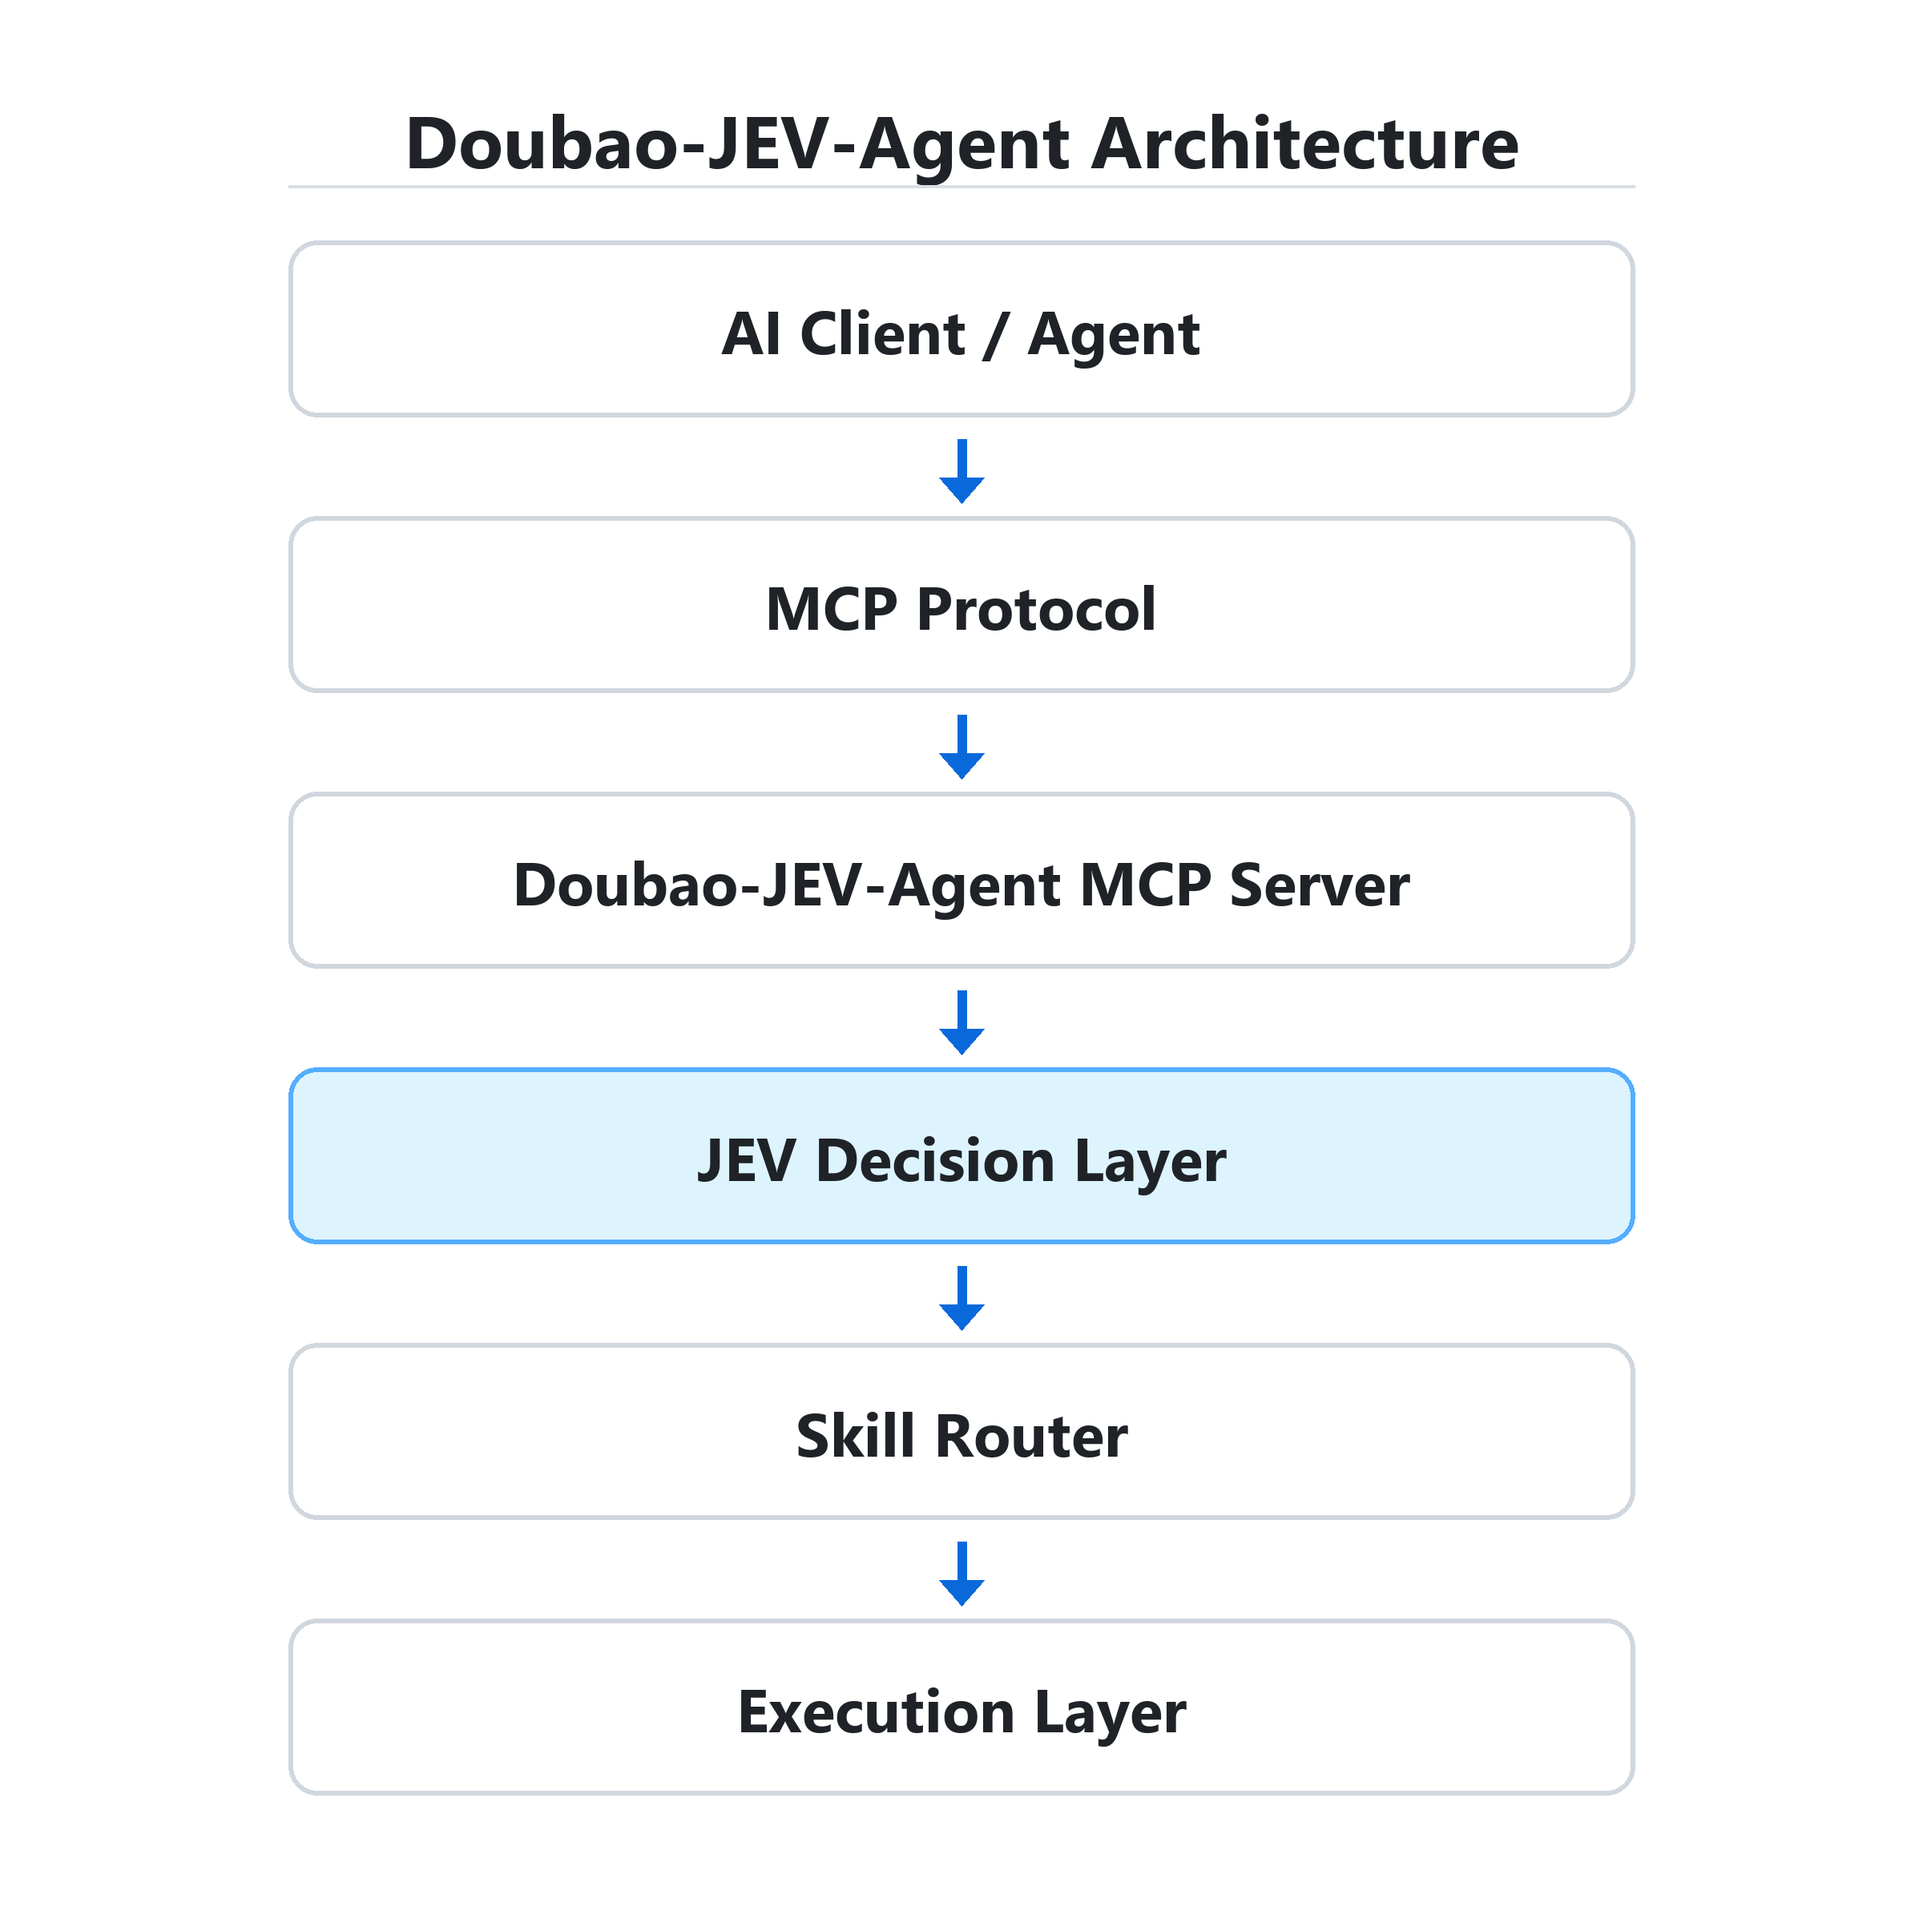
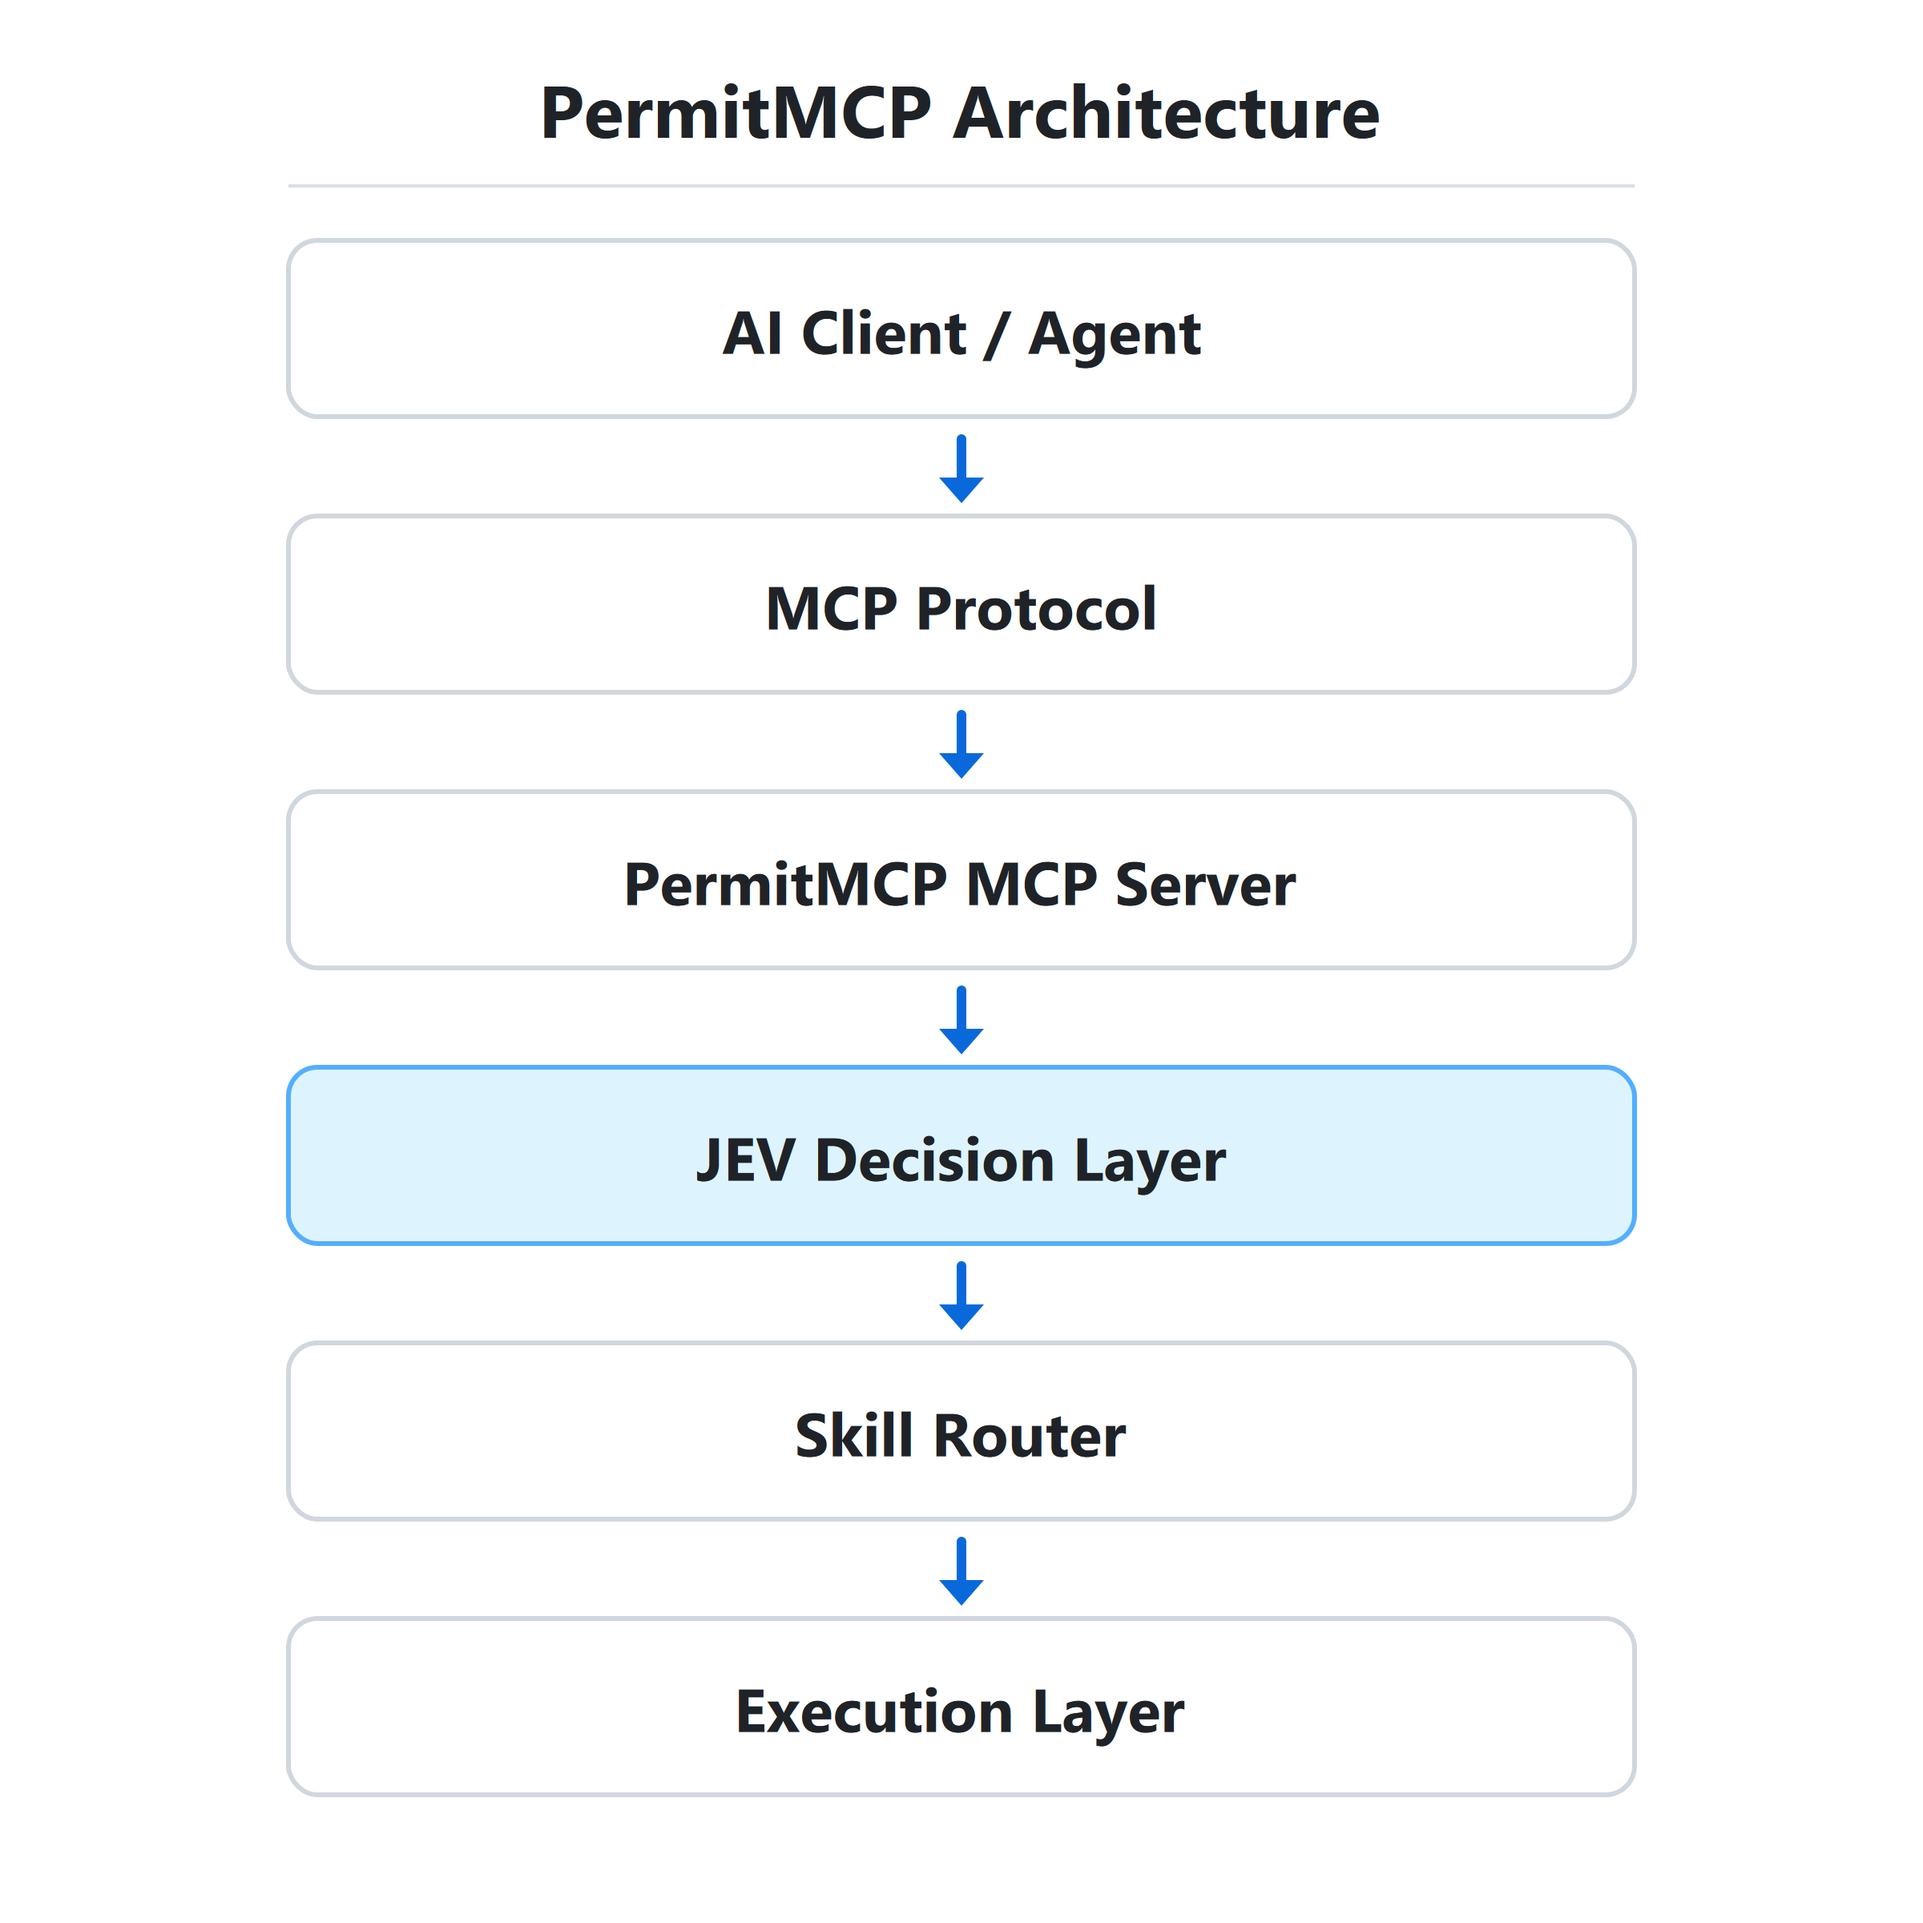
docs: rename project to PermitMCP

diff --git a/src/mcp/tools.py b/src/mcp/tools.py
@@ -43,7 +43,7 @@ def register_tools(
 
     @server.tool()
     def list_skills() -> list[str]:
-        """List skill names supported by this Doubao JEV Agent instance."""
+        """List skill names supported by this PermitMCP instance."""
         return [skill.name for skill in registry.list()]
 
     @server.tool()
@@ -66,7 +66,7 @@ def create_mcp_server(
     """Create the MCP server, defaulting to the environment-selected JEV client."""
     from ..jev.client import JEVClient as ClientFactory
 
-    server = FastMCP("doubao-jev-agent")
+    server = FastMCP("PermitMCP")
     engine = DecisionEngine(client or ClientFactory.from_env())
     controlled_agent = ControlledAgentRunner(
         engine, sandbox_root or Path.cwd(), DeterministicDemoAgent()

diff --git a/examples/doubao_demo.py b/examples/doubao_demo.py
@@ -11,7 +11,7 @@ async def main():
     task = "分析这个岗位是否适合我"
     result = await SkillRouter(DecisionEngine(MockJEVClient())).route(task)
     adapter = DoubaoAdapter()
-    print("Doubao JEV Agent | Career Routing Demo")
+    print("PermitMCP | Career Routing Demo")
     print(f"Task:       {task}\nSelected:   {result.skill}\nConfidence: {result.confidence:.2f}\nAdapter:    {(await adapter.execute_skill(result.skill, task))['status']}")
 
 if __name__ == "__main__": asyncio.run(main())

diff --git a/examples/skill_router_demo.py b/examples/skill_router_demo.py
@@ -8,7 +8,7 @@ from src.jev.mock import MockJEVClient
 
 async def main():
     result = await SkillRouter(DecisionEngine(MockJEVClient())).route("帮我优化论文格式")
-    print("Doubao JEV Agent | Skill Routing Demo")
+    print("PermitMCP | Skill Routing Demo")
     print(f"Task:       帮我优化论文格式\nSelected:   {result.skill}\nConfidence: {result.confidence:.2f}\nReason:     {result.reason}")
 
 if __name__ == "__main__": asyncio.run(main())

diff --git a/examples/agent_router_demo.py b/examples/agent_router_demo.py
@@ -9,7 +9,7 @@ from src.jev.mock import MockJEVClient
 async def main():
     task = "分析 GitHub issue"
     result = await AgentRouter(DecisionEngine(MockJEVClient())).route(task)
-    print("Doubao JEV Agent | Agent Routing Demo")
+    print("PermitMCP | Agent Routing Demo")
     print(f"Task:       {task}\nSelected:   {result.agent}\nConfidence: {result.confidence:.2f}\nReason:     {result.reason}")
 
 if __name__ == "__main__": asyncio.run(main())

diff --git a/tests/test_mcp.py b/tests/test_mcp.py
@@ -19,7 +19,7 @@ def test_mcp_server_registers_expected_tools():
     assert {tool.name for tool in tools} == {
         "jev_decide", "agent_run", "list_skills", "controlled_agent_run", "approve_action"
     }
-    assert server.name == "doubao-jev-agent"
+    assert server.name == "PermitMCP"
 
 
 def test_mcp_tools_run_in_mock_mode():

diff --git a/src/main.py b/src/main.py
@@ -7,7 +7,7 @@ from .api.routes import build_router
 def create_app() -> FastAPI:
     client = JEVClient.from_env()
     app = FastAPI(
-        title="Doubao-JEV-Agent",
+        title="PermitMCP",
         version="0.3.0",
         description="A JEV-powered decision/control layer for MCP-compatible AI Agents.",
     )

diff --git a/src/mcp/server.py b/src/mcp/server.py
@@ -1,4 +1,4 @@
-"""Run the Doubao JEV Agent MCP server over stdio."""
+"""Run the PermitMCP MCP server over stdio."""
 from .tools import create_mcp_server
 
 mcp = create_mcp_server()

diff --git a/src/mcp/__init__.py b/src/mcp/__init__.py
@@ -1,1 +1,1 @@
-"""MCP server integration for Doubao JEV Agent."""
+"""MCP server integration for PermitMCP."""

diff --git a/src/__init__.py b/src/__init__.py
@@ -1,1 +1,1 @@
-"""Doubao JEV Agent package."""
+"""PermitMCP package."""

diff --git a/README.md b/README.md
@@ -1,4 +1,4 @@
-# Doubao-JEV-Agent
+# PermitMCP
 
 [English](README.md) | [中文](README_CN.md)
 
@@ -31,9 +31,11 @@ Policy `DENY` stops before JEV. Policy `REVIEW` waits for caller approval. `ALLO
 
 ## Quick Start
 
-Requires Python 3.11 or later. From the repository root:
+Requires Python 3.11 or later. Clone [PermitMCP](https://github.com/qinpei-dev/permit-mcp) and run from the repository root:
 
 ```bash
+git clone https://github.com/qinpei-dev/permit-mcp.git
+cd permit-mcp
 pip install -r requirements.txt
 python -m examples.showcase
 ```
@@ -79,7 +81,7 @@ The MCP client provides the task and allowed choices. JEV returns a choice that 
 
 ## Architecture
 
-![Doubao-JEV-Agent architecture diagram](docs/images/architecture.png)
+![PermitMCP architecture diagram](docs/images/architecture.png)
 
 MCP handles communication. JEV makes a structured decision from the client's allowed choices. The Skill Router selects the registered skill, and the executor runs its local workflow.
 
@@ -92,7 +94,7 @@ Install the dependencies, then add the following server entry to your MCP host c
 ```json
 {
   "mcpServers": {
-    "doubao-jev-agent": {
+    "permit-mcp": {
       "command": "python",
       "args": ["-m", "src.mcp.server"],
       "env": {}
@@ -218,7 +220,7 @@ See the [Decision Routing Evaluation](benchmark/results.md). Run `python benchma
 
 ## Roadmap
 
-The latest release is [v0.3.0](https://github.com/qinpei-dev/Doubao-jev-agent/releases/tag/v0.3.0). It adds the controlled Agent execution loop to the MCP decision layer, local demo workflows, HTTP API, and offline decision-routing evaluation. Possible future work includes more MCP host examples; no delivery dates are committed.
+The latest release is [v0.3.0](https://github.com/qinpei-dev/permit-mcp/releases/tag/v0.3.0). It adds the controlled Agent execution loop to the MCP decision layer, local demo workflows, HTTP API, and offline decision-routing evaluation. Possible future work includes more MCP host examples; no delivery dates are committed.
 
 ## Docker
 

diff --git a/docs/doubao-mcp.md b/docs/doubao-mcp.md
@@ -2,7 +2,7 @@
 
 ## Prerequisites
 
-- Install Python 3.11 or later and clone this repository.
+- Install Python 3.11 or later and clone [PermitMCP](https://github.com/qinpei-dev/permit-mcp).
 - From the repository root, create and activate a virtual environment, then run `pip install -r requirements.txt`.
 - Have a Doubao Desktop version that supports custom MCP connectors. The exact menu labels may vary by version.
 
@@ -23,7 +23,7 @@
 5. Set the working directory to the absolute path of your cloned repository. For example, on Windows:
 
    ```text
-   D:\projects\Doubao-jev-agent
+   D:\projects\permit-mcp
    ```
 
    Python must start in this directory so it can import `src`. Select the `python` executable from the virtual environment if Doubao Desktop does not inherit your activated environment.
@@ -34,7 +34,7 @@ The equivalent MCP server configuration is:
 ```json
 {
   "mcpServers": {
-    "doubao-jev-agent": {
+    "permit-mcp": {
       "command": "python",
       "args": ["-m", "src.mcp.server"],
       "env": {}
